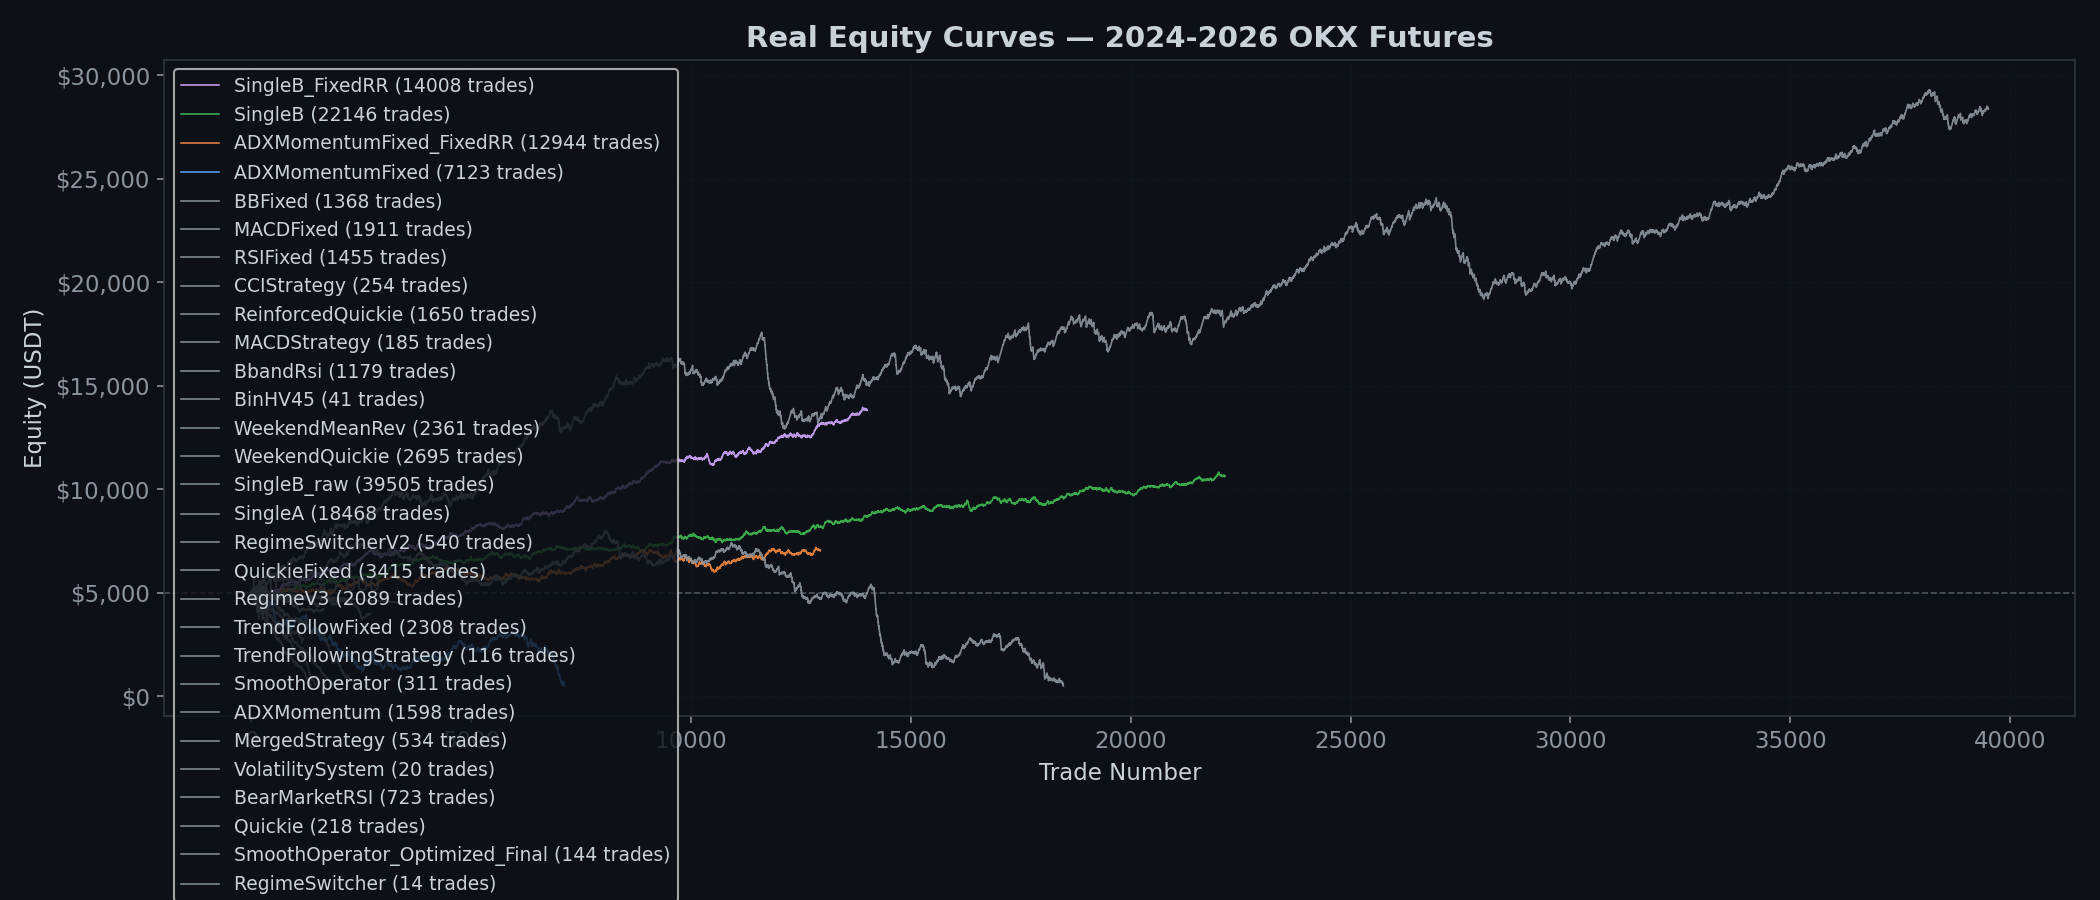
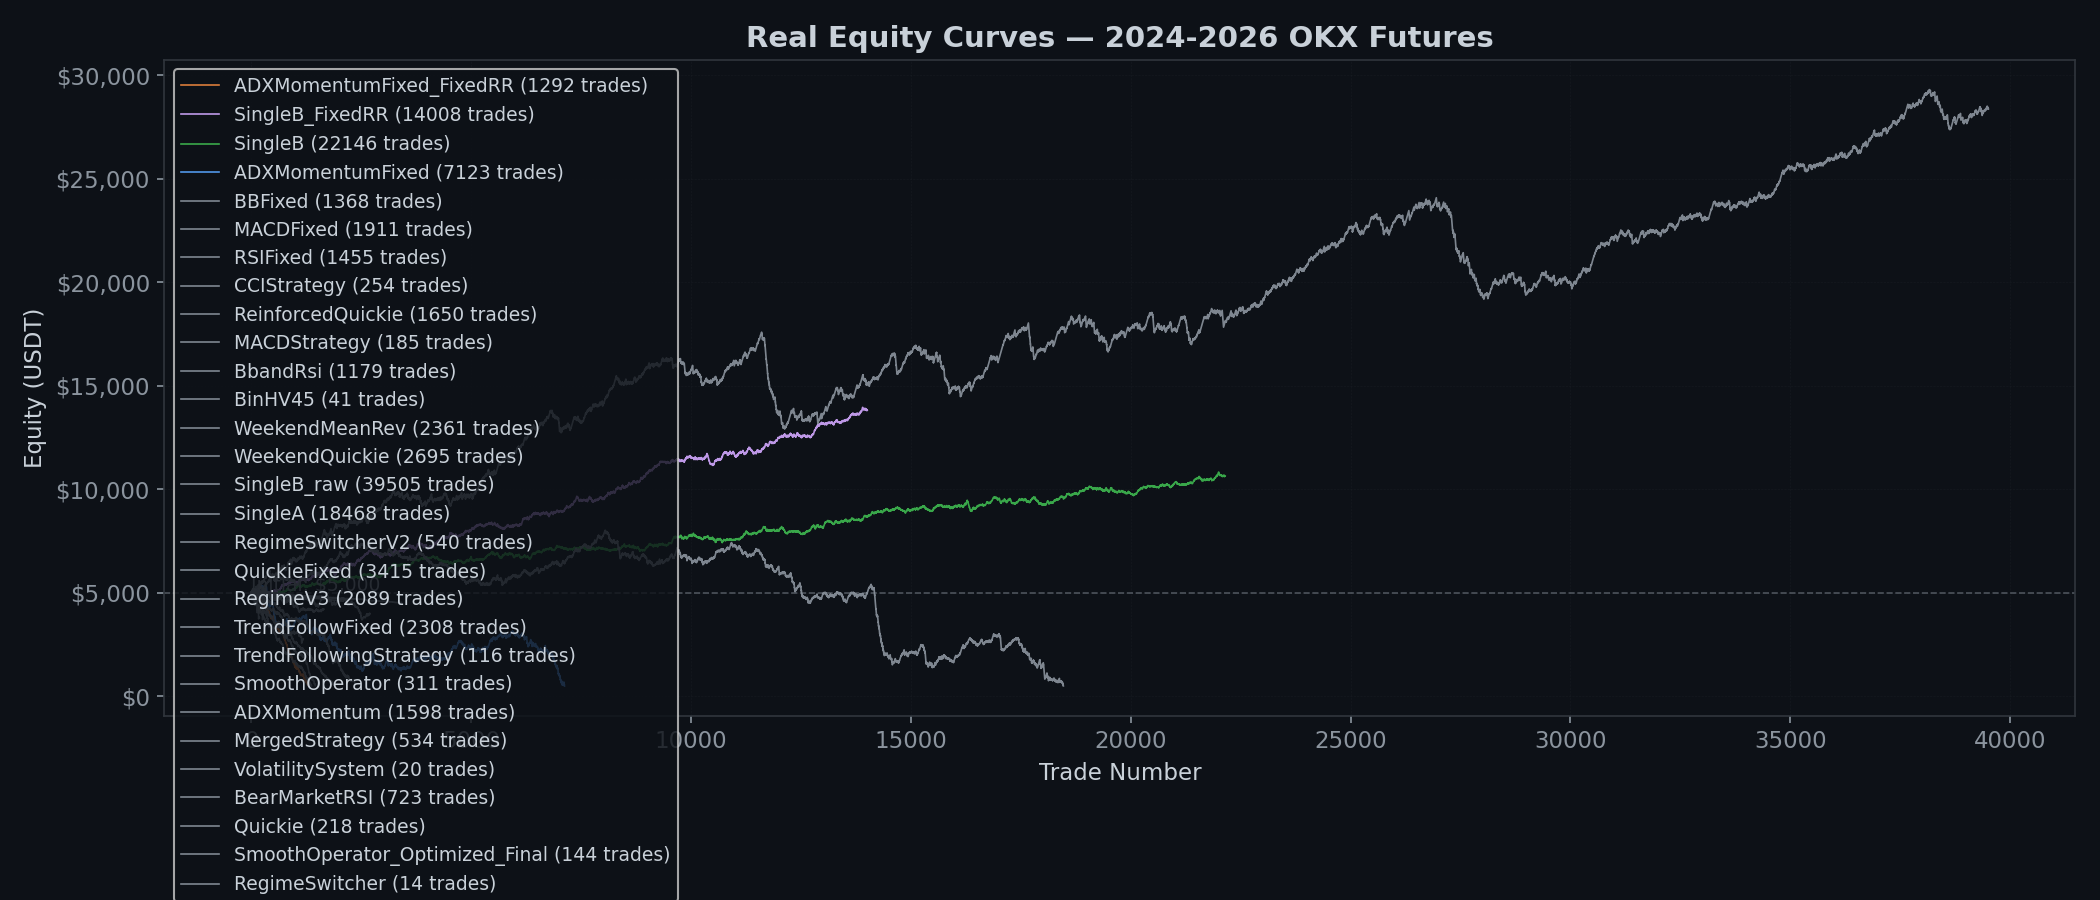
fix leverage comparison, add BTC benchmark, update chart data

Changed region(s): [[0.0929, 0.0622, 0.3095, 0.1867], [0.2476, 0.6222, 0.2786, 0.6533]]

diff --git a/analysis/generate_charts.py b/analysis/generate_charts.py
@@ -41,7 +41,7 @@ plt.rcParams.update(STYLE)
 # --- Real backtest results (2024-2026, 5m, OKX futures) ---
 REAL_RESULTS = {
     "ADXMomentumFixed": {
-        "label": "3 Indicators\n+ Trailing",
+        "label": "3 Indicators\n+ Trailing (5×)",
         "trades": 7123,
         "win_rate": 74.6,
         "profit": -4518,
@@ -49,15 +49,15 @@ REAL_RESULTS = {
         "group": "Complex",
     },
     "ADXMomentumFixed_FixedRR": {
-        "label": "3 Indicators\n+ Fixed 1:1",
-        "trades": 12944,
-        "win_rate": 52.6,
-        "profit": 2040,
+        "label": "3 Indicators\n+ Fixed 1:1 (5×)",
+        "trades": 1292,
+        "win_rate": 36.9,
+        "profit": -4495,
         "color": "#f0883e",
         "group": "Complex",
     },
     "SingleB": {
-        "label": "1 Indicator\n+ Trailing",
+        "label": "1 Indicator\n+ Trailing (1×)",
         "trades": 22146,
         "win_rate": 66.3,
         "profit": 5635,
@@ -65,7 +65,7 @@ REAL_RESULTS = {
         "group": "Simple",
     },
     "SingleB_FixedRR": {
-        "label": "1 Indicator\n+ Fixed 1:1",
+        "label": "1 Indicator\n+ Fixed 1:1 (1×)",
         "trades": 14008,
         "win_rate": 55.6,
         "profit": 8814,

diff --git a/README.md b/README.md
@@ -18,22 +18,27 @@ Then I started peeling layers off.
 
 ## The results
 
-| Strategy | Indicators | Exit type | Trades | Win rate | Profit |
-|----------|:---:|------|------:|------:|------:|
-| ADXMomentumFixed | ADX+DI+MOM | Trailing stop | 7,123 | 74.6% | **-$4,518** |
-| ADXMomentumFixed_FixedRR | ADX+DI+MOM | Fixed 1:1 | 12,944 | 52.6% | +$2,040 |
-| SingleB | MOM only | Trailing stop | 22,146 | 66.3% | +$5,635 |
-| **SingleB_FixedRR** | **MOM only** | **Fixed 1:1** | **14,008** | **55.6%** | **+$8,814** |
+All strategies start with $5,000. Backtest period: January 2024 – July 2026, OKX perpetual futures, 5-minute candles, 10 coins. For reference, Bitcoin went from $42,298 to $61,950 in this period — a 46.5% gain. Buying and holding BTC would have turned $5,000 into $7,323.
+
+| Strategy | Indicators | Exit type | Leverage | Trades | Win rate | Profit |
+|----------|:---:|------|:---:|------:|------:|------:|
+| ADXMomentumFixed | ADX+DI+MOM | Trailing stop | 5× | 7,123 | 74.6% | **-$4,518** |
+| ADXMomentumFixed_FixedRR | ADX+DI+MOM | Fixed 1:1 | 5× | 1,292 | 36.9% | **-$4,495** |
+| SingleB | MOM only | Trailing stop | 1× | 22,146 | 66.3% | +$5,635 |
+| **SingleB_FixedRR** | **MOM only** | **Fixed 1:1** | **1×** | **14,008** | **55.6%** | **+$8,814** |
+| *BTC buy-and-hold* | *—* | *—* | *—* | *—* | *—* | *+$2,323* |
 
 Some things that surprised me:
 
-- **The highest win rate strategy (74.6%) was the only one that lost money.** Its trailing stop was too tight — 0.1% offset on 5-minute candles basically means you exit at the first tick of noise before any trend can develop.
+- **The trailing stop inflated ADXMomentumFixed's win rate from 36.9% to 74.6%.** That's not an edge — that's a 38 percentage point artifact. With the same entries and a fixed 1:1 exit, the true accuracy is worse than a coin flip. The trailing stop converts losers into "small wins" by exiting at the first micro-bounce before the stop loss is hit, then counts them as wins in the stats. At 5× leverage, this effect is amplified because small price moves equal large PnL swings.
 
-- **Fewer indicators made more money.** The 3-indicator version (ADXMomentumFixed) was the worst performer. Stripping it down to just MOM improved results across the board.
+- **At 5× leverage, both ADXMomentumFixed variants lost nearly everything.** The trailing version lost 90% of the account. The fixed version lost 90% of the account. The entry signal simply has no edge at this timeframe and distance, and leverage magnifies the noise.
 
-- **The fixed 1:1 exit beat the trailing stop in both comparisons.** I thought trailing stops were supposed to let winners run. In this market regime (a pretty strong bull run), they did the opposite — they cut winners short and let the commission stack up.
+- **Fewer indicators did better.** The 3-indicator version was the worst. SingleB (MOM only) improved results. But it's worth noting: the ADX versions used 5× leverage and SingleB used 1×, so the comparison across families isn't apples-to-apples on PnL. The levered versions got destroyed; the unlevered versions survived.
 
-- **The simplest strategy won.** SingleB_FixedRR: one indicator, fixed stop and target, no leverage tricks. $8,814 profit. Not life-changing, but it was profitable across 14,000+ trades.
+- **Fixed 1:1 beat trailing in both families.** ADXMomentumFixed_FixedRR (-$4,495) was marginally less bad than ADXMomentumFixed (-$4,518), and SingleB_FixedRR (+$8,814) beat SingleB (+$5,635). The trailing stop was cutting winners short, not protecting profits.
+
+- **BTC buy-and-hold returned +46.5%.** SingleB_FixedRR's +176% beat it, but the gap is smaller than it looks when you account for the 14,008 trades' worth of fees and the concentration risk of being in 10 altcoins vs one Bitcoin.
 
 ---
 
@@ -66,11 +71,11 @@ I'm not saying these are universal truths. This is one experiment, one market re
 
 1. **Test your indicators for collinearity before trusting them.** If two indicators share the same underlying formula (like ADX and DI both come from directional movement), they're not two independent signals. They're one signal with different wrappers.
 
-2. **Test your entry signal with a fixed 1:1 exit first.** Before any trailing stop, any optimization, anything clever — just use a fixed 1.5% stop and 1.5% target. This tells you whether your entries have any edge at all. If win rate is below 50% with fixed exits, your entry signal isn't doing anything useful.
+2. **Test your entry signal with a fixed 1:1 exit first.** Before any trailing stop, any optimization, anything clever — just use a fixed 1.5% stop and 1.5% target. ADXMomentumFixed's true accuracy went from 74.6% to 36.9% when I did this. A 36.9% win rate with 1:1 risk/reward is a negative-expectancy game — you lose 1.5% 63% of the time and gain 1.5% 37% of the time. The math doesn't work, and no exit optimization can fix an entry signal that's worse than random.
 
 3. **More complexity makes things worse more often than it makes them better.** The 3-indicator strategy was the worst. The 1-indicator strategy was the best. This doesn't mean simple is always better — it means you should have to prove that each added indicator helps, not just assume it does.
 
-4. **Win rate alone is meaningless.** The highest win rate lost money because the wins were tiny ($3 average) and the losses were huge ($27 average). You can have a 90% win rate and go broke if your risk/reward is bad enough.
+4. **Win rate alone is meaningless, especially with leverage.** ADXMomentumFixed showed 74.6% WR but lost 90% of the account. At 5× leverage, the trailing stop's micro-wins ($3 average) couldn't offset the occasional full-stop-loss disaster ($27 average). You can have a high win rate and still get wiped out.
 
 5. **Trailing stops need room to breathe.** If your trailing offset is smaller than normal price noise on your timeframe, you're not managing risk. You're just exiting randomly.
 
@@ -80,11 +85,11 @@ I'm not saying these are universal truths. This is one experiment, one market re
 
 ## Limitations
 
-- Only tested on crypto, only on OKX, only 5-minute timeframe, only 2024-2026 (which was a bull run)
+- Only tested on crypto, only on OKX, only 5-minute timeframe, only January 2024 – July 2026 (which included a strong bull run — BTC went from $42K to $62K, +46.5%)
 - 4 strategies isn't a lot. I started with more but these were the only ones worth writing about
 - Fees are included (OKX standard 0.05% taker) but real slippage might be higher
-- The ADXMomentumFixed versions use 5x leverage, SingleB versions use 1x — so the absolute PnL numbers aren't directly comparable across families
-- No buy-and-hold comparison. In this period, BTC alone went up ~300%. $8,814 on a $5,000 starting balance is about +176%, which is good but not amazing relative to the market
+- ADXMomentumFixed uses 5× leverage; SingleB uses 1× leverage. The ADX versions' extreme losses are partly a leverage story, not just an exit-logic story. A fair comparison across families would require running all four strategies at both leverage levels
+- BTC buy-and-hold is now included as a baseline. But BTC ≠ a basket of 10 altcoins — the risk profiles are completely different
 
 ---
 